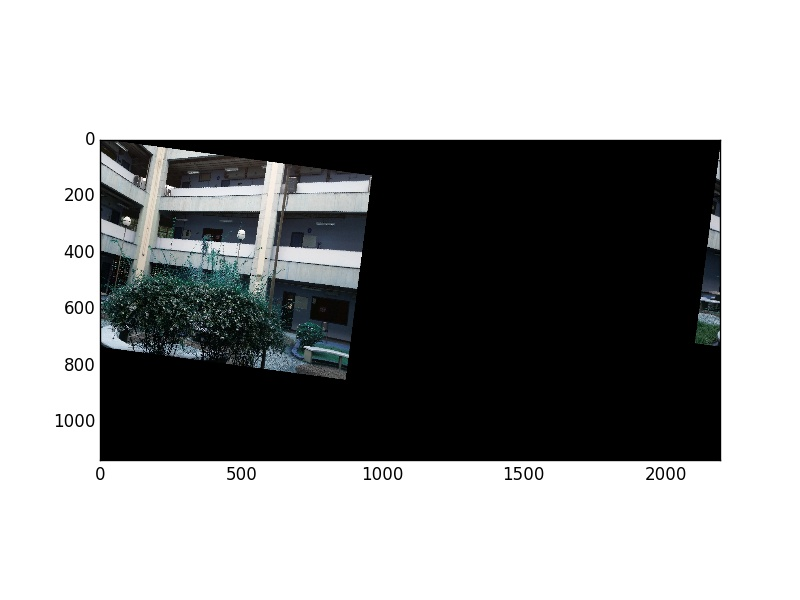
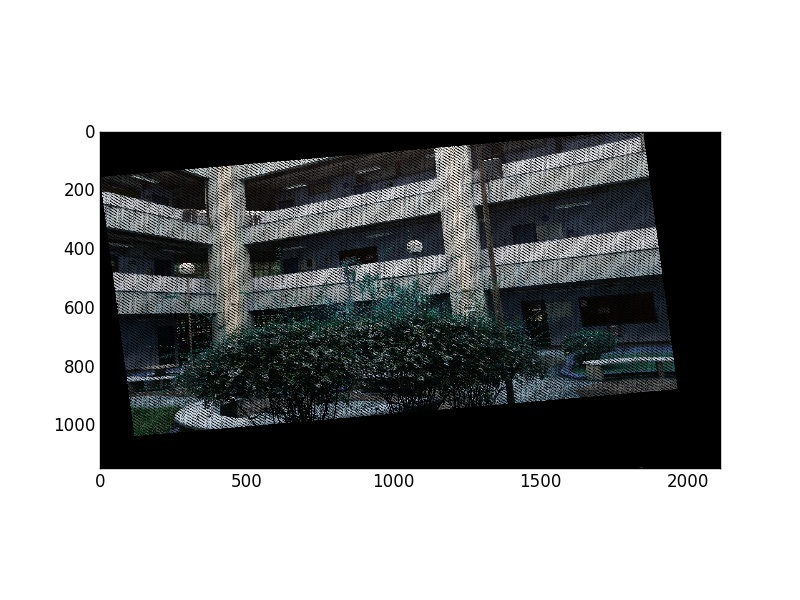
Starting warp perspective

diff --git a/tp2.py b/tp2.py
@@ -251,7 +251,7 @@ class ImageBlock:
 
     def warp(self, h, new_h, new_w, min_x, min_y):
         img_h, img_w = self._image.shape[:2]
-        warped_img = np.zeros((new_h+1, new_w+1, 3), np.uint8)
+        warped_img = np.zeros((new_h, new_w, 3), np.uint8)
         w = 1
         for y in range(img_h):
             for x in range(img_w):
@@ -269,7 +269,7 @@ class Mosaic:
         matches = center_block.match(target)
         homography = center_block.get_homography(target, matches)
         inv_homography = np.linalg.inv(homography)
-        (min_x, min_y, max_x, max_y) = get_dimensions(target.get_image(), inv_homography)
+        (min_x, min_y, max_x, max_y) = get_dimensions(target.get_image(), homography)
         # Adjust max_x and max_y by base img size
         max_x = max(max_x, center_block.get_image().shape[1])
         max_y = max(max_y, center_block.get_image().shape[0])
@@ -283,18 +283,20 @@ class Mosaic:
         if min_y < 0:
             min_y *= -1
 
-        new_h = max_y + min_y + 100
-        new_w = max_x + min_x + 100
+        new_h = max_y + 100 #+ min_y + 100
+        new_w = max_x + 100 #+ min_x + 100
 
+        img_w = new_w + 1
+        img_h = new_h + 1
         # target_img_wrp = cv2.warpPerspective(target.get_image(), mod_inv_h, (img_w, img_h))
-        target_img_wrp = target.warp(homography, new_h, new_w, min_x, min_y)
+        target_img_wrp = target.warp(inv_homography, new_h, new_w, min_x, min_y)
         # center_img_wrp = cv2.warpPerspective(center_block.get_image(), move_h, (img_w, img_h))
         center_img_wrp = center_block.warp(inv_homography, new_h, new_w, min_x, min_y)
 
         (ret, data_map) = cv2.threshold(cv2.cvtColor(center_img_wrp, cv2.COLOR_BGR2GRAY),
                                         0, 255, cv2.THRESH_BINARY)
 
-        enlarged_base_img = np.zeros((img_h+1, img_w+1, 3), np.uint8)
+        enlarged_base_img = np.zeros((img_h, img_w, 3), np.uint8)
         # Now add the warped image
         save_image(target_img_wrp, 'wrapped_' + target.get_path())
         save_image(center_img_wrp, 'wrapped_' + center_block.get_path())
